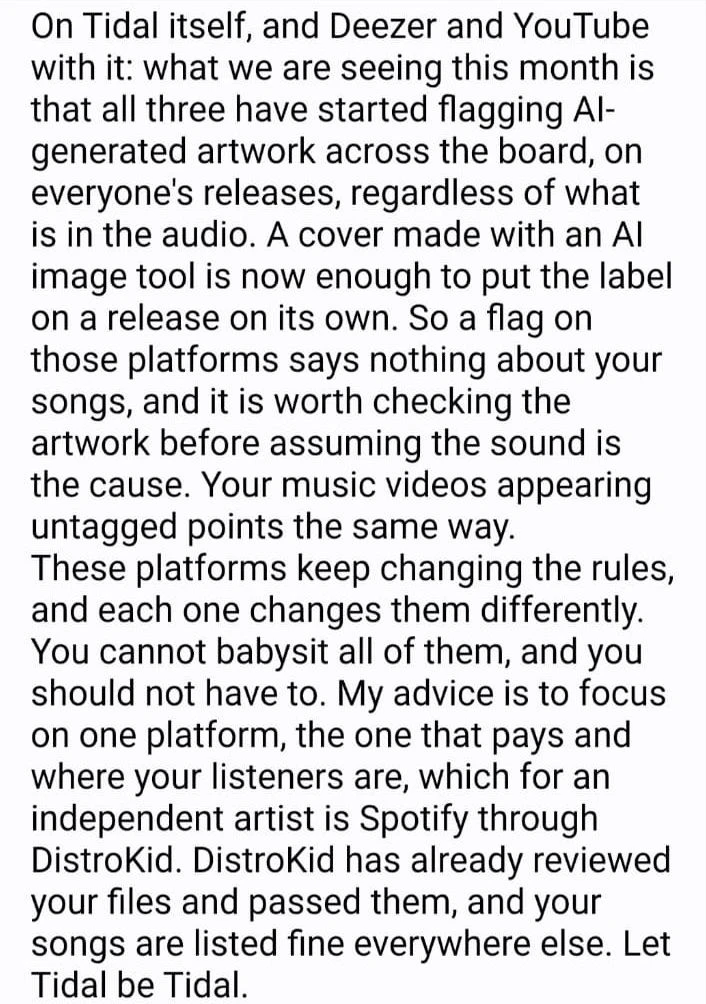
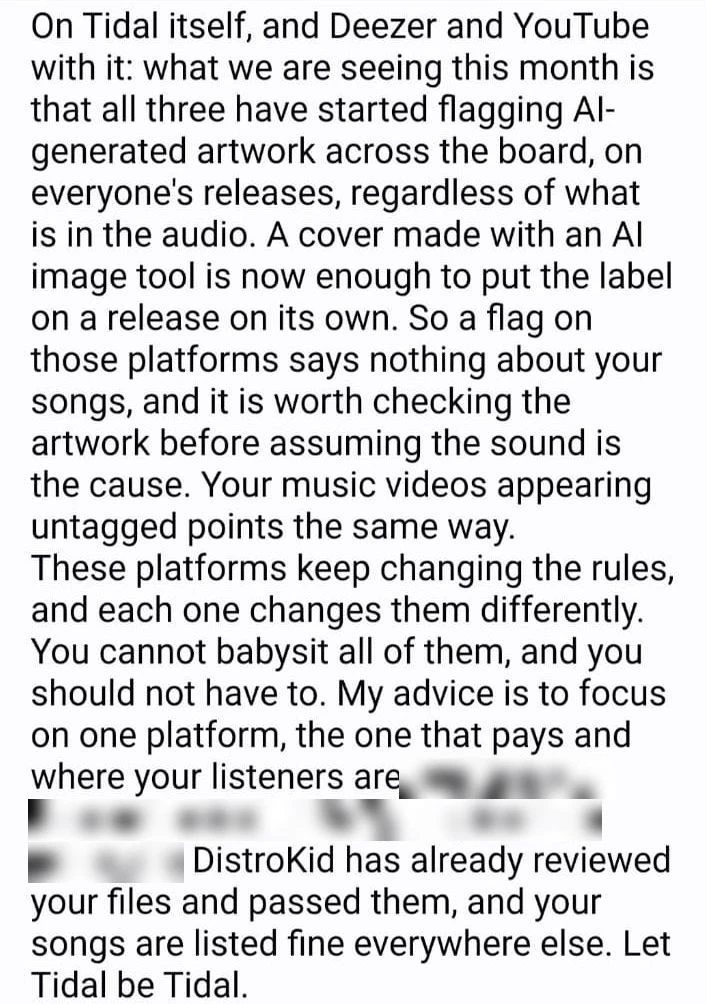
Hide the platform recommendation in the first email: blur it in the image and mark it as omitted in the transcript (12 languages)

Changed region(s): [[0.0312, 0.741, 0.8725, 0.8954]]

diff --git a/src/i18n/messages/bn.ts b/src/i18n/messages/bn.ts
@@ -634,7 +634,7 @@ const bn: PartialMessages = {
       ],
       engineer: [
         "Tidal নিজের সম্পর্কে, আর তার সঙ্গে Deezer ও YouTube সম্পর্কে: এই মাসে আমরা যা দেখছি তা হলো, তিনটিই এখন সবার প্রকাশনায় ব্যাপকভাবে এআই-তৈরি প্রচ্ছদে চিহ্ন দিতে শুরু করেছে, অডিওতে যা-ই থাকুক না কেন। এআই ছবি-সরঞ্জাম দিয়ে বানানো একটি প্রচ্ছদই এখন কোনো প্রকাশনায় লেবেল বসাতে যথেষ্ট। তাই ওই প্ল্যাটফর্মগুলোতে চিহ্ন আপনার গান সম্পর্কে কিছুই বলে না, আর শব্দকেই কারণ ধরে নেওয়ার আগে প্রচ্ছদটি দেখে নেওয়া উচিত। আপনার মিউজিক ভিডিওগুলো চিহ্ন ছাড়া দেখানো হচ্ছে, তা-ও একই দিক নির্দেশ করে।",
-        "এই প্ল্যাটফর্মগুলো নিয়মকানুন বদলাতেই থাকে, আর প্রতিটি আলাদাভাবে বদলায়। আপনি সবগুলোর দেখভাল করতে পারবেন না, আর আপনার করার কথাও নয়। আমার পরামর্শ, একটি প্ল্যাটফর্মে মনোযোগ দিন, যেটি অর্থ দেয় এবং যেখানে আপনার শ্রোতারা আছে, যা একজন স্বাধীন শিল্পীর জন্য DistroKid-এর মাধ্যমে Spotify। DistroKid ইতিমধ্যে আপনার ফাইলগুলো যাচাই করে অনুমোদন দিয়েছে, আর আপনার গানগুলো অন্য সব জায়গায় ঠিকঠাক তালিকাভুক্ত আছে। Tidal-কে Tidal-এর মতো থাকতে দিন।",
+        "এই প্ল্যাটফর্মগুলো নিয়মকানুন বদলাতেই থাকে, আর প্রতিটি আলাদাভাবে বদলায়। আপনি সবগুলোর দেখভাল করতে পারবেন না, আর আপনার করার কথাও নয়। আমার পরামর্শ, একটি প্ল্যাটফর্মে মনোযোগ দিন, যেটি অর্থ দেয় এবং যেখানে আপনার শ্রোতারা আছে […] DistroKid ইতিমধ্যে আপনার ফাইলগুলো যাচাই করে অনুমোদন দিয়েছে, আর আপনার গানগুলো অন্য সব জায়গায় ঠিকঠাক তালিকাভুক্ত আছে। Tidal-কে Tidal-এর মতো থাকতে দিন।",
       ],
       signoff: "আপনার কাজ চমৎকার। চালিয়ে যান।",
       mixea: [

diff --git a/src/i18n/messages/ru.ts b/src/i18n/messages/ru.ts
@@ -634,7 +634,7 @@ const ru: PartialMessages = {
       ],
       engineer: [
         "О самом Tidal, а вместе с ним Deezer и YouTube: в этом месяце мы видим, что все три начали отмечать обложки, созданные ИИ, повсеместно, у всех релизов, независимо от того, что в аудио. Обложки, сделанной в инструменте ИИ для изображений, теперь достаточно, чтобы на релизе появилась метка. Поэтому метка на этих платформах ничего не говорит о ваших песнях, и стоит проверить обложку, прежде чем считать причиной звук. То, что ваши музыкальные клипы появляются без метки, указывает в ту же сторону.",
-        "Эти платформы постоянно меняют правила, и каждая делает это по-своему. Вы не можете присматривать за всеми, и вам не должно приходиться. Мой совет: сосредоточьтесь на одной платформе, на той, которая платит и где находятся ваши слушатели, а для независимой артистки это Spotify через DistroKid. DistroKid уже проверил ваши файлы и одобрил их, и ваши песни без проблем размещены везде в других местах. Пусть Tidal остаётся Tidal.",
+        "Эти платформы постоянно меняют правила, и каждая делает это по-своему. Вы не можете присматривать за всеми, и вам не должно приходиться. Мой совет: сосредоточьтесь на одной платформе, на той, которая платит и где находятся ваши слушатели […] DistroKid уже проверил ваши файлы и одобрил их, и ваши песни без проблем размещены везде в других местах. Пусть Tidal остаётся Tidal.",
       ],
       signoff: "Ваша работа превосходна. Продолжайте.",
       mixea: [

diff --git a/src/i18n/messages/ja.ts b/src/i18n/messages/ja.ts
@@ -634,7 +634,7 @@ const ja: PartialMessages = {
       ],
       engineer: [
         "Tidal自体、そしてDeezerとYouTubeについて：今月見ているのは、この3つすべてが、音声の内容にかかわらず、全員のリリースを対象に、AI生成のアートワークに一律でフラグを付けはじめたということです。AI画像ツールで作ったカバーだけで、リリースにラベルが付くようになりました。つまり、これらのプラットフォームでのフラグは、あなたの楽曲については何も語っていません。音が原因だと考える前に、アートワークを確認する価値があります。あなたのミュージックビデオにラベルが付いていないことも、同じ方向を指しています。",
-        "これらのプラットフォームはルールを変え続けていて、変え方もそれぞれ違います。そのすべてに目を配ることはできませんし、その必要もありません。私のアドバイスは、報酬が支払われ、リスナーがいる一つのプラットフォームに集中することです。インディペンデントのアーティストにとっては、DistroKidを通じたSpotifyです。DistroKidはすでにあなたのファイルを確認して承認しており、ほかのすべての場所でもあなたの楽曲は問題なく掲載されています。Tidalのことは、Tidalに任せておきましょう。",
+        "これらのプラットフォームはルールを変え続けていて、変え方もそれぞれ違います。そのすべてに目を配ることはできませんし、その必要もありません。私のアドバイスは、報酬が支払われ、リスナーがいる一つのプラットフォームに集中することです。[…]DistroKidはすでにあなたのファイルを確認して承認しており、ほかのすべての場所でもあなたの楽曲は問題なく掲載されています。Tidalのことは、Tidalに任せておきましょう。",
       ],
       signoff: "あなたの仕事は素晴らしいです。そのまま続けてください。",
       mixea: [

diff --git a/src/i18n/messages/ar.ts b/src/i18n/messages/ar.ts
@@ -634,7 +634,7 @@ const ar: PartialMessages = {
       ],
       engineer: [
         "بخصوص Tidal نفسها، ومعها Deezer وYouTube: ما نراه هذا الشهر هو أن الثلاثة بدأت بوضع علامات على الصور المولّدة بالذكاء الاصطناعي على نطاق واسع، على إصدارات الجميع، بغض النظر عما في الصوت. وصار غلاف صُنع بأداة صور ذكاء اصطناعي كافياً وحده لوضع العلامة على إصدار. لذا فإن علامة على تلك المنصات لا تقول شيئاً عن أغانيك، ومن المفيد فحص الصورة قبل افتراض أن الصوت هو السبب. وظهور فيديوهاتك الموسيقية بلا علامة يشير في الاتجاه نفسه.",
-        "هذه المنصات تواصل تغيير القواعد، وكل واحدة منها تغيّرها بطريقة مختلفة. لا يمكنك مراقبتها جميعاً، ولا ينبغي أن تضطري إلى ذلك. نصيحتي أن تركّزي على منصة واحدة، هي التي تدفع وفيها مستمعوك، وهي بالنسبة إلى فنانة مستقلة Spotify عبر DistroKid. فقد راجعت DistroKid ملفاتك ووافقت عليها، وأغانيك مدرجة بلا مشاكل في كل مكان آخر. دعي Tidal تكون Tidal.",
+        "هذه المنصات تواصل تغيير القواعد، وكل واحدة منها تغيّرها بطريقة مختلفة. لا يمكنك مراقبتها جميعاً، ولا ينبغي أن تضطري إلى ذلك. نصيحتي أن تركّزي على منصة واحدة، هي التي تدفع وفيها مستمعوك […] فقد راجعت DistroKid ملفاتك ووافقت عليها، وأغانيك مدرجة بلا مشاكل في كل مكان آخر. دعي Tidal تكون Tidal.",
       ],
       signoff: "عملك ممتاز. واصلي.",
       mixea: [

diff --git a/src/i18n/messages/vi.ts b/src/i18n/messages/vi.ts
@@ -634,7 +634,7 @@ const vi: PartialMessages = {
       ],
       engineer: [
         "Về chính Tidal, cùng với Deezer và YouTube: điều chúng tôi thấy trong tháng này là cả ba đã bắt đầu gắn cờ ảnh bìa do AI tạo ra trên diện rộng, trên các bản phát hành của mọi người, bất kể âm thanh bên trong là gì. Một ảnh bìa làm bằng công cụ hình ảnh AI giờ đã đủ để gắn nhãn lên một bản phát hành. Vì vậy một lá cờ trên các nền tảng đó không nói gì về các bài hát của bạn, và nên kiểm tra ảnh bìa trước khi cho rằng nguyên nhân là âm thanh. Việc các video âm nhạc của bạn xuất hiện không có nhãn cũng chỉ về cùng hướng đó.",
-        "Những nền tảng này liên tục thay đổi quy tắc, và mỗi nơi thay đổi theo một cách khác nhau. Bạn không thể canh chừng tất cả, và bạn cũng không nên phải làm vậy. Lời khuyên của tôi là hãy tập trung vào một nền tảng, nơi trả tiền và có người nghe của bạn, mà với một nghệ sĩ độc lập là Spotify thông qua DistroKid. DistroKid đã xem xét các tệp của bạn và chấp thuận chúng, và các bài hát của bạn được đăng ổn ở mọi nơi khác. Hãy để Tidal là Tidal.",
+        "Những nền tảng này liên tục thay đổi quy tắc, và mỗi nơi thay đổi theo một cách khác nhau. Bạn không thể canh chừng tất cả, và bạn cũng không nên phải làm vậy. Lời khuyên của tôi là hãy tập trung vào một nền tảng, nơi trả tiền và có người nghe của bạn […] DistroKid đã xem xét các tệp của bạn và chấp thuận chúng, và các bài hát của bạn được đăng ổn ở mọi nơi khác. Hãy để Tidal là Tidal.",
       ],
       signoff: "Công việc của bạn rất xuất sắc. Hãy tiếp tục.",
       mixea: [

diff --git a/src/i18n/messages/it.ts b/src/i18n/messages/it.ts
@@ -634,7 +634,7 @@ const it: PartialMessages = {
       ],
       engineer: [
         "Su Tidal stessa, e con essa Deezer e YouTube: quello che vediamo questo mese è che tutte e tre hanno iniziato a segnalare le copertine generate con l'IA in modo generalizzato, sulle uscite di tutti, a prescindere da cosa ci sia nell'audio. Una copertina fatta con uno strumento di immagini IA basta ormai da sola a mettere l'etichetta su un'uscita. Quindi un segnalino su quelle piattaforme non dice nulla sulle tue canzoni, ed è meglio controllare la copertina prima di supporre che la causa sia il suono. Il fatto che i tuoi video musicali compaiano senza etichetta va nella stessa direzione.",
-        "Queste piattaforme continuano a cambiare le regole, e ognuna le cambia in modo diverso. Non puoi fare da babysitter a tutte, e non dovresti doverlo fare. Il mio consiglio è di concentrarti su una sola piattaforma, quella che paga e dove ci sono i tuoi ascoltatori, che per un'artista indipendente è Spotify tramite DistroKid. DistroKid ha già esaminato i tuoi file e li ha approvati, e le tue canzoni sono pubblicate senza problemi ovunque altrove. Lascia che Tidal sia Tidal.",
+        "Queste piattaforme continuano a cambiare le regole, e ognuna le cambia in modo diverso. Non puoi fare da babysitter a tutte, e non dovresti doverlo fare. Il mio consiglio è di concentrarti su una sola piattaforma, quella che paga e dove ci sono i tuoi ascoltatori […] DistroKid ha già esaminato i tuoi file e li ha approvati, e le tue canzoni sono pubblicate senza problemi ovunque altrove. Lascia che Tidal sia Tidal.",
       ],
       signoff: "Il tuo lavoro è eccellente. Continua così.",
       mixea: [

diff --git a/src/i18n/messages/es.ts b/src/i18n/messages/es.ts
@@ -634,7 +634,7 @@ const es: PartialMessages = {
       ],
       engineer: [
         "Sobre Tidal en sí, y con él Deezer y YouTube: lo que vemos este mes es que los tres han empezado a marcar las ilustraciones generadas con IA en todos los casos, en los lanzamientos de todo el mundo, sin importar lo que haya en el audio. Una portada hecha con una herramienta de imagen con IA basta ahora por sí sola para poner la etiqueta a un lanzamiento. Así que una marca en esas plataformas no dice nada sobre tus canciones, y conviene revisar la ilustración antes de suponer que la causa es el sonido. Que tus vídeos musicales aparezcan sin etiqueta apunta en el mismo sentido.",
-        "Estas plataformas siguen cambiando las reglas, y cada una las cambia de forma distinta. No puedes vigilarlas a todas, y no deberías tener que hacerlo. Mi consejo es que te centres en una sola plataforma, la que paga y donde están tus oyentes, que para una artista independiente es Spotify a través de DistroKid. DistroKid ya revisó tus archivos y los aprobó, y tus canciones están publicadas sin problema en todos los demás sitios. Deja que Tidal sea Tidal.",
+        "Estas plataformas siguen cambiando las reglas, y cada una las cambia de forma distinta. No puedes vigilarlas a todas, y no deberías tener que hacerlo. Mi consejo es que te centres en una sola plataforma, la que paga y donde están tus oyentes […] DistroKid ya revisó tus archivos y los aprobó, y tus canciones están publicadas sin problema en todos los demás sitios. Deja que Tidal sea Tidal.",
       ],
       signoff: "Tu trabajo es excelente. Sigue adelante.",
       mixea: [

diff --git a/src/i18n/messages/sv.ts b/src/i18n/messages/sv.ts
@@ -634,7 +634,7 @@ const sv: PartialMessages = {
       ],
       engineer: [
         "Angående Tidal självt, och Deezer och YouTube med det: det vi ser den här månaden är att alla tre har börjat flagga AI-genererade omslagsbilder över hela linjen, på allas utgåvor, oavsett vad som finns i ljudet. Ett omslag gjort med ett AI-bildverktyg räcker nu i sig för att sätta etiketten på en utgåva. En flagga på de plattformarna säger alltså ingenting om dina låtar, och det är värt att kontrollera omslagsbilden innan man antar att ljudet är orsaken. Att dina musikvideor visas utan etikett pekar åt samma håll.",
-        "De här plattformarna fortsätter att ändra reglerna, och var och en ändrar dem på sitt sätt. Du kan inte hålla koll på alla, och du borde inte behöva. Mitt råd är att koncentrera dig på en plattform, den som betalar och där dina lyssnare finns, vilket för en oberoende artist är Spotify via DistroKid. DistroKid har redan granskat och godkänt dina filer, och dina låtar finns utlagda utan problem överallt annars. Låt Tidal vara Tidal.",
+        "De här plattformarna fortsätter att ändra reglerna, och var och en ändrar dem på sitt sätt. Du kan inte hålla koll på alla, och du borde inte behöva. Mitt råd är att koncentrera dig på en plattform, den som betalar och där dina lyssnare finns […] DistroKid har redan granskat och godkänt dina filer, och dina låtar finns utlagda utan problem överallt annars. Låt Tidal vara Tidal.",
       ],
       signoff: "Ditt arbete är utmärkt. Fortsätt så.",
       mixea: [

diff --git a/src/i18n/messages/no.ts b/src/i18n/messages/no.ts
@@ -634,7 +634,7 @@ const no: PartialMessages = {
       ],
       engineer: [
         "Om Tidal selv, og Deezer og YouTube sammen med det: det vi ser denne måneden er at alle tre har begynt å flagge KI-genererte omslagsbilder over hele linjen, på alles utgivelser, uansett hva som er i lyden. Et omslag laget med et KI-bildeverktøy er nå nok i seg selv til å sette merket på en utgivelse. Et merke på disse plattformene sier derfor ingenting om sangene dine, og det er verdt å sjekke omslagsbildet før man antar at lyden er årsaken. At musikkvideoene dine vises uten merke peker i samme retning.",
-        "Disse plattformene fortsetter å endre reglene, og hver av dem endrer dem på sin måte. Du kan ikke holde styr på alle, og du bør ikke måtte. Mitt råd er å konsentrere deg om én plattform, den som betaler og der lytterne dine er, som for en uavhengig artist er Spotify via DistroKid. DistroKid har allerede gått gjennom filene dine og godkjent dem, og sangene dine er lagt ut uten problemer overalt ellers. La Tidal være Tidal.",
+        "Disse plattformene fortsetter å endre reglene, og hver av dem endrer dem på sin måte. Du kan ikke holde styr på alle, og du bør ikke måtte. Mitt råd er å konsentrere deg om én plattform, den som betaler og der lytterne dine er […] DistroKid har allerede gått gjennom filene dine og godkjent dem, og sangene dine er lagt ut uten problemer overalt ellers. La Tidal være Tidal.",
       ],
       signoff: "Arbeidet ditt er utmerket. Fortsett sånn.",
       mixea: [

diff --git a/src/i18n/messages/zh-tw.ts b/src/i18n/messages/zh-tw.ts
@@ -634,7 +634,7 @@ const zhTw: PartialMessages = {
       ],
       engineer: [
         "關於 Tidal 本身，以及連同它的 Deezer 與 YouTube：我們這個月看到的是，這三者都已開始全面標記 AI 生成的封面圖像，針對每個人的發行作品，不論音訊內容為何。如今，僅僅一張用 AI 圖像工具製作的封面，就足以讓一個發行作品被貼上標記。因此，這些平台上的標記，並不能說明你的歌曲什麼，在認定是聲音造成之前，值得先檢查封面圖像。你的音樂影片沒有被標記，也是指向同樣的結論。",
-        "這些平台一直在改變規則，而且每一個改變的方式都不同。你沒辦法顧及所有平台，也不應該要這麼做。我的建議是專注在一個平台，也就是有收入、有你的聽眾所在的那個，對獨立藝人來說，就是透過 DistroKid 發行的 Spotify。DistroKid 已經檢視並通過你的檔案，你的歌曲在其他所有地方也都順利上架。就讓 Tidal 做它自己吧。",
+        "這些平台一直在改變規則，而且每一個改變的方式都不同。你沒辦法顧及所有平台，也不應該要這麼做。我的建議是專注在一個平台，也就是有收入、有你的聽眾所在的那個[…]DistroKid 已經檢視並通過你的檔案，你的歌曲在其他所有地方也都順利上架。就讓 Tidal 做它自己吧。",
       ],
       signoff: "你的作品非常出色。繼續加油。",
       mixea: [

diff --git a/src/i18n/messages/zh-hk.ts b/src/i18n/messages/zh-hk.ts
@@ -634,7 +634,7 @@ const zhHk: PartialMessages = {
       ],
       engineer: [
         "關於 Tidal 本身，連同 Deezer 同 YouTube：我哋今個月見到嘅係，呢三個平台都已經開始全面標記 AI 生成嘅封面圖像，針對每個人嘅發行作品，無論音訊入面係乜嘢。而家淨係一張用 AI 圖像工具製作嘅封面，已經足以令一個發行作品被貼上標記。所以，呢啲平台上嘅標記，並唔能夠說明你啲歌乜嘢，喺認定係聲音造成之前，值得先檢查封面圖像。你啲音樂影片冇被標記，都係指向同一個結論。",
-        "呢啲平台不斷改變規則，而且每個改變嘅方式都唔同。你冇辦法顧及晒所有平台，亦唔應該要咁做。我嘅建議係專注喺一個平台，即係有收入、有你嘅聽眾所在嘅嗰個，對獨立藝人嚟講，就係透過 DistroKid 發行嘅 Spotify。DistroKid 已經檢視並通過咗你啲檔案，你啲歌喺其他所有地方都順利上架。就由得 Tidal 做返佢自己啦。",
+        "呢啲平台不斷改變規則，而且每個改變嘅方式都唔同。你冇辦法顧及晒所有平台，亦唔應該要咁做。我嘅建議係專注喺一個平台，即係有收入、有你嘅聽眾所在嘅嗰個[…]DistroKid 已經檢視並通過咗你啲檔案，你啲歌喺其他所有地方都順利上架。就由得 Tidal 做返佢自己啦。",
       ],
       signoff: "你嘅作品非常出色。繼續加油。",
       mixea: [

diff --git a/src/i18n/messages/en.ts b/src/i18n/messages/en.ts
@@ -183,7 +183,7 @@ export const en = {
       ],
       engineer: [
         "On Tidal itself, and Deezer and YouTube with it: what we are seeing this month is that all three have started flagging AI-generated artwork across the board, on everyone's releases, regardless of what is in the audio. A cover made with an AI image tool is now enough to put the label on a release on its own. So a flag on those platforms says nothing about your songs, and it is worth checking the artwork before assuming the sound is the cause. Your music videos appearing untagged points the same way.",
-        "These platforms keep changing the rules, and each one changes them differently. You cannot babysit all of them, and you should not have to. My advice is to focus on one platform, the one that pays and where your listeners are, which for an independent artist is Spotify through DistroKid. DistroKid has already reviewed your files and passed them, and your songs are listed fine everywhere else. Let Tidal be Tidal.",
+        "These platforms keep changing the rules, and each one changes them differently. You cannot babysit all of them, and you should not have to. My advice is to focus on one platform, the one that pays and where your listeners are […] DistroKid has already reviewed your files and passed them, and your songs are listed fine everywhere else. Let Tidal be Tidal.",
       ],
       signoff: "Your work is excellent. Keep going.",
       mixea: [
